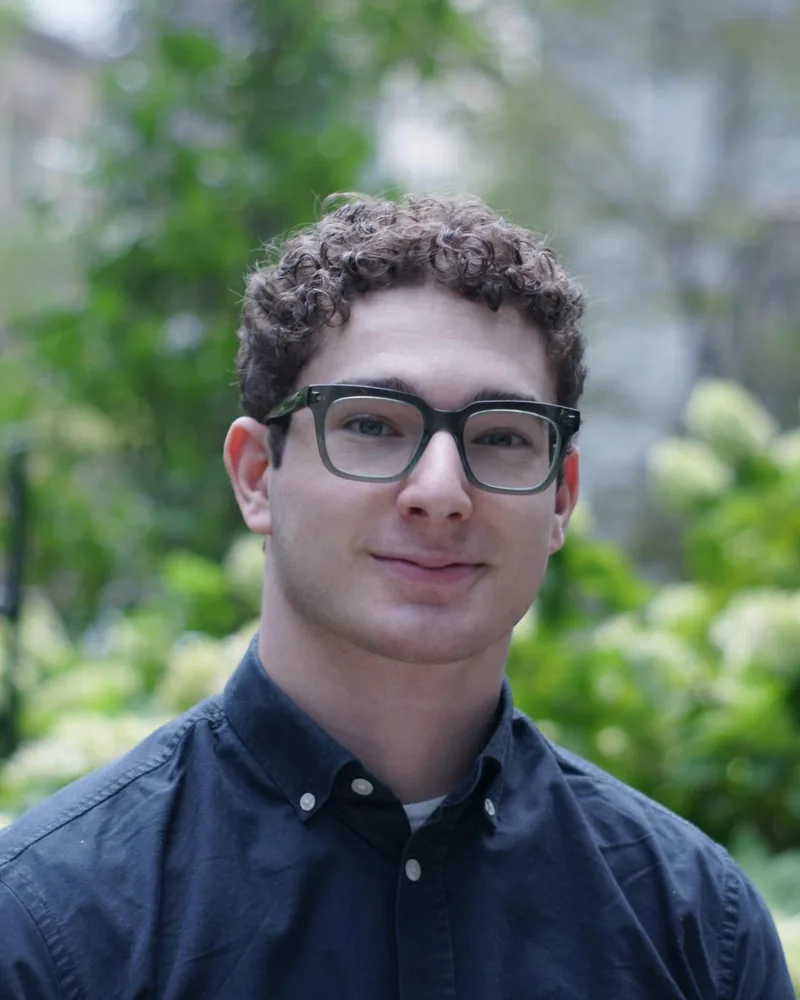
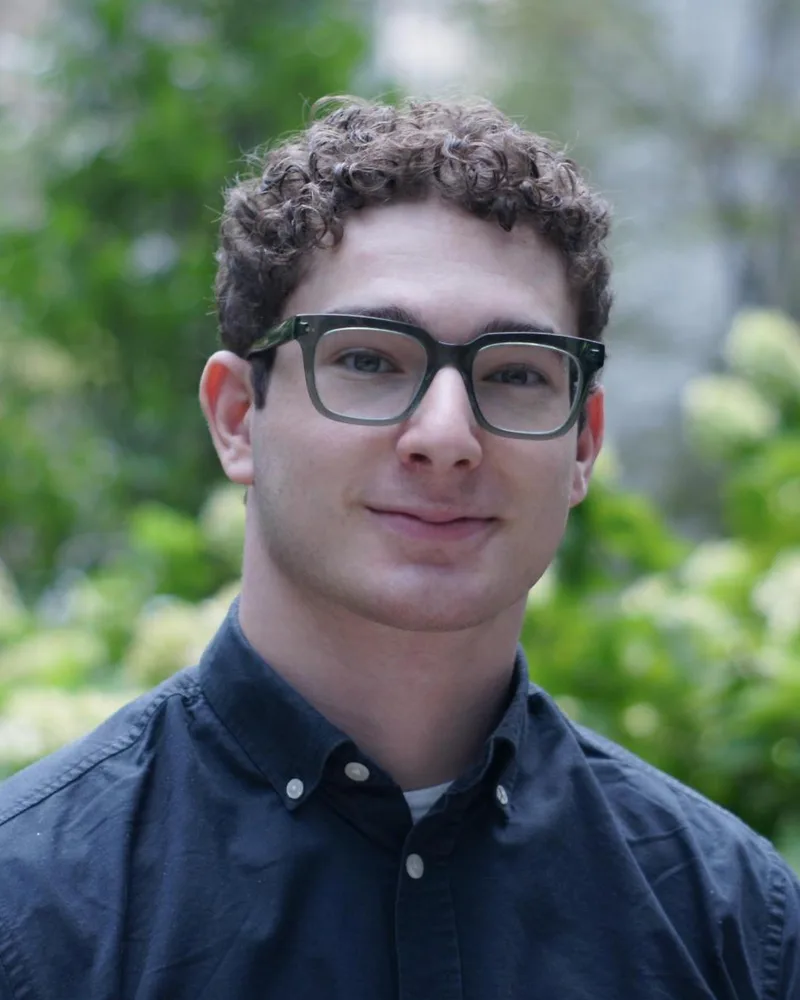
Align the team portraits on a common eye line, and link three of them
The heads sat at different heights, from 40 to 50 percent down the frame,
which is what stopped the row reading as one set. Each crop is now placed
from where the eyes actually fall in its source so all five land on the
same line, with the crop height bounded so no portrait has to be clamped
against an edge to get there.

Joseph, Isabel and Boyan link out; the portrait and name are one target,
and the two without a link stay plain text.

Claude-Session: https://claude.ai/code/session_01NJEYB1fUjTYLUqM5vKnhRJ

diff --git a/src/app/team/page.tsx b/src/app/team/page.tsx
@@ -5,10 +5,26 @@ export const metadata: Metadata = {
   title: "Team | Toronto AI Safety Initiative",
 };
 
-const team = [
-  { name: "Joseph Kostousov", role: "Co-director and Co-founder", photo: "/team/joseph.webp" },
-  { name: "Isabel Liu", role: "Co-director", photo: "/team/isabel.webp" },
-  { name: "Boyan Litchev", role: "Special Projects", photo: "/team/boyan.webp" },
+// href is optional: only some of the team have somewhere to point at.
+const team: { name: string; role: string; photo: string; href?: string }[] = [
+  {
+    name: "Joseph Kostousov",
+    role: "Co-director and Co-founder",
+    photo: "/team/joseph.webp",
+    href: "https://josephkostousov.com/",
+  },
+  {
+    name: "Isabel Liu",
+    role: "Co-director",
+    photo: "/team/isabel.webp",
+    href: "https://www.linkedin.com/in/isabel-liu74/",
+  },
+  {
+    name: "Boyan Litchev",
+    role: "Special Projects",
+    photo: "/team/boyan.webp",
+    href: "https://www.linkedin.com/in/boyan-litchev-75a90a342/",
+  },
   { name: "Paul Hindoian", role: "Policy Lead", photo: "/team/paul.webp" },
   {
     name: "Julian Moncarz",
@@ -31,27 +47,45 @@ export default function Team() {
             One entrance carries the grid, rather than each portrait arriving
             on its own. */}
         <ul className="intro-rise grid grid-cols-2 sm:grid-cols-3 lg:grid-cols-5 gap-x-5 gap-y-8 sm:gap-x-6 sm:gap-y-10">
-          {team.map(({ name, role, photo }) => (
-            <li key={name}>
-              {/* The cream ground shows through while the image decodes, so
-                  the column does not flash white. */}
-              <div className="relative aspect-[4/5] overflow-hidden bg-cream">
-                <Image
-                  src={photo}
-                  alt={name}
-                  fill
-                  sizes="(min-width: 1024px) 220px, (min-width: 640px) 30vw, 45vw"
-                  className="object-cover"
-                />
-              </div>
-              <p className="mt-3 text-[16px] sm:text-[17px] font-semibold text-text leading-snug">
-                {name}
-              </p>
-              <p className="mt-1 text-[14px] sm:text-[15px] text-text-secondary leading-snug">
-                {role}
-              </p>
-            </li>
-          ))}
+          {team.map(({ name, role, photo, href }) => {
+            const portrait = (
+              <>
+                {/* The cream ground shows through while the image decodes, so
+                    the column does not flash white. */}
+                <div className="relative aspect-[4/5] overflow-hidden bg-cream">
+                  <Image
+                    src={photo}
+                    alt={name}
+                    fill
+                    sizes="(min-width: 1024px) 220px, (min-width: 640px) 30vw, 45vw"
+                    className="object-cover transition-opacity duration-200 group-hover:opacity-90"
+                  />
+                </div>
+                <p className="mt-3 text-[16px] sm:text-[17px] font-semibold text-text leading-snug transition-colors group-hover:text-accent">
+                  {name}
+                </p>
+              </>
+            );
+            return (
+              <li key={name}>
+                {href ? (
+                  <a
+                    href={href}
+                    target="_blank"
+                    rel="noopener noreferrer"
+                    className="group block"
+                  >
+                    {portrait}
+                  </a>
+                ) : (
+                  portrait
+                )}
+                <p className="mt-1 text-[14px] sm:text-[15px] text-text-secondary leading-snug">
+                  {role}
+                </p>
+              </li>
+            );
+          })}
         </ul>
       </section>
     </main>
